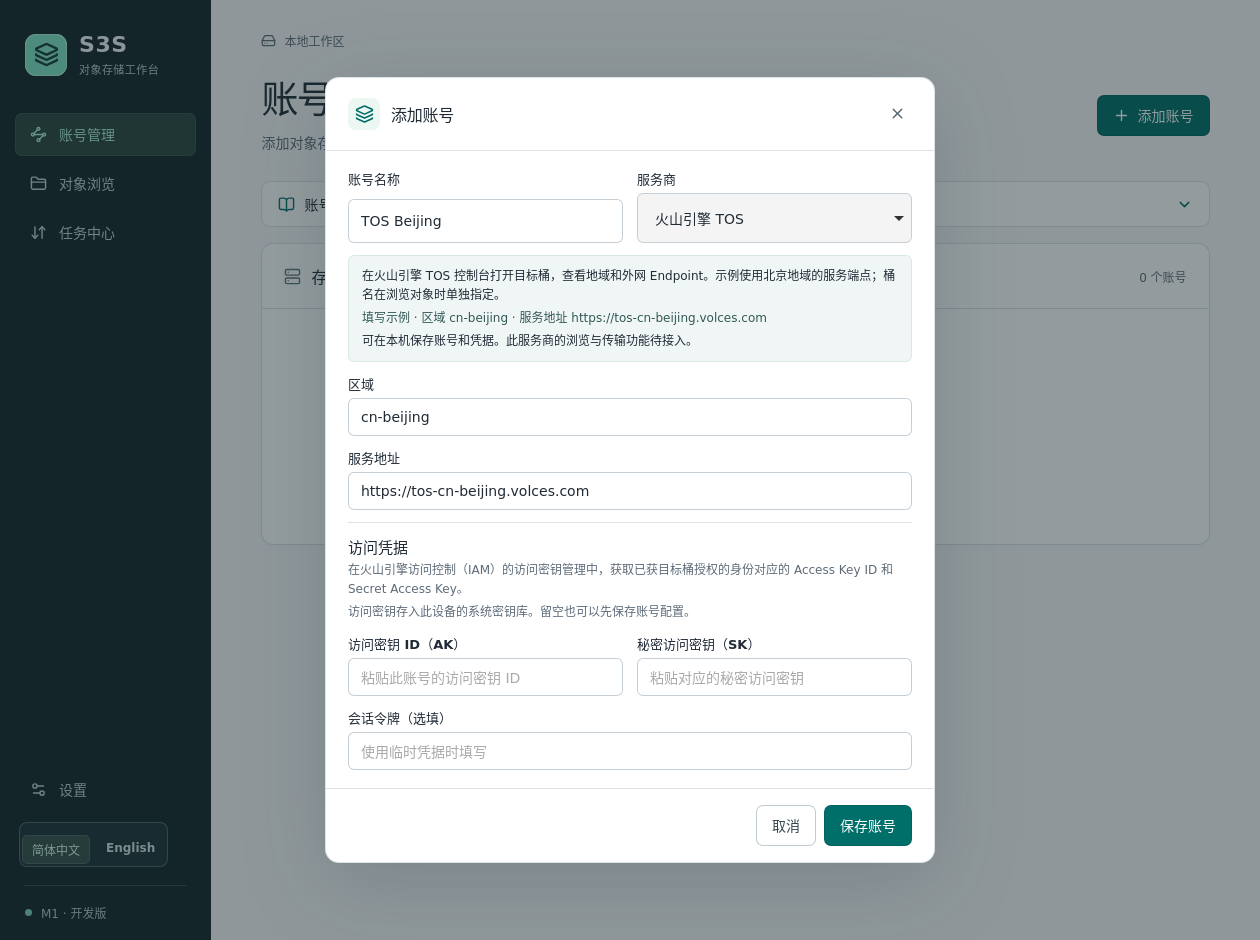
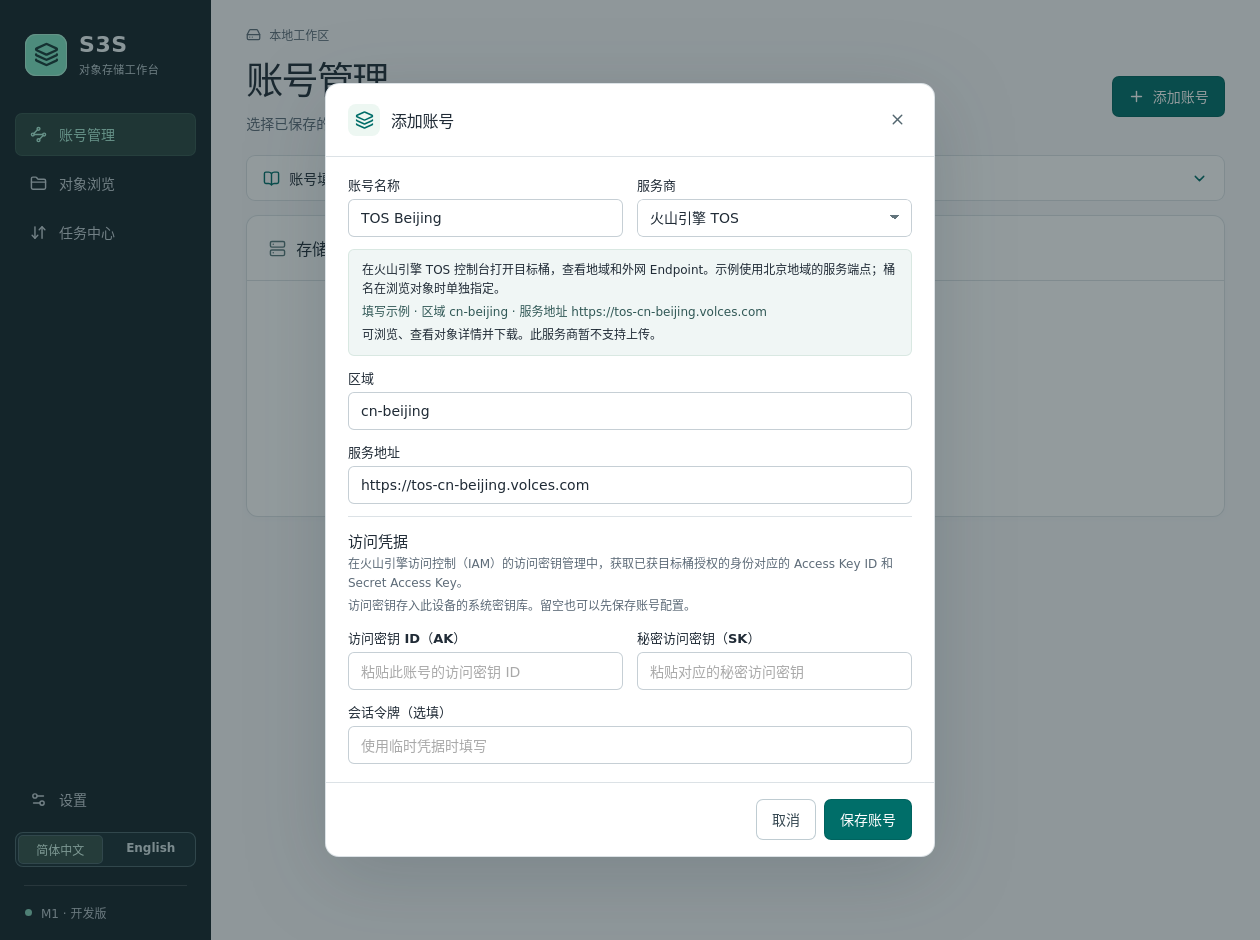
Document account-to-bucket workflows, limits and verified desktop examples

diff --git a/docs/ARCHITECTURE.md b/docs/ARCHITECTURE.md
@@ -8,7 +8,7 @@ Wails 3 在窗口中加载由 Vite 编译、Go `embed` 打包的静态文件。V
 | --- | --- |
 | `main.go` | 创建应用与窗口，注册服务，在关闭时释放数据库。应用数据保存在操作系统返回的用户配置目录下的 `S3S/workspace.sqlite3`。 |
 | `workspace.go` | 提供连接列表、保存本地连接、读取任务等元数据接口。返回可区分的结果和错误。保存配置只表示本地写入完成。 |
-| `internal/core` | 定义独立的连接、厂商能力、传输选项、任务状态、检查点和结构化错误。能力表反映已实现操作。AWS/R2 使用独立配置和共同的 S3 协议适配器；其余厂商保留公开连接模型。 |
+| `internal/core` | 定义独立的连接、厂商能力、传输选项、任务状态、检查点和结构化错误。能力表反映已实现操作。AWS/R2 使用独立配置和共同的 S3 协议适配器；通用 S3 使用显式 HTTPS 端点，OSS 与 TOS 使用各自原生适配器。 |
 | `internal/vault`、`internal/s3client` | 按当前连接在系统凭据库读取授权信息，使用固定版本的 AWS SDK 构造签名请求、解析分页和条件范围响应；对外提供可本地化的错误。 |
 | `internal/transfer` | 处理下载区间与上传分片，核对源身份、计算摘要、提交检查点，协调本地或远端发布与恢复。 |
 | `internal/store` | 管理数据库迁移、连接配置、任务、远程会话标识及分片检查点。采用 `database/sql`、嵌入的 SQL 和支持 CGO 的 SQLite 驱动。 |
@@ -23,6 +23,8 @@ Wails 3 在窗口中加载由 Vite 编译、Go `embed` 打包的静态文件。V
 | Wails Go 模块、CLI、前端 runtime | 3.1.0 | Go 使用 `github.com/wailsapp/wails/v3`；CLI 入口为相同模块的 `cmd/wails3`；前端使用 `@wailsio/runtime`。打包脚本直接构建 Go 入口，无需 Wails v2 命令。 |
 | SQLite 驱动 | `github.com/mattn/go-sqlite3` v1.14.53 | 使用驱动内嵌的 SQLite 编译；版本与校验和见 `go.mod` 和 `go.sum`。 |
 | AWS SDK for Go v2 | 核心 v1.48.0、credentials v1.21.3、S3 v1.116.0、Smithy Go v1.28.10 | AWS 和 R2 的签名、请求与协议错误解码。按模块独立锁定并提交校验和。 |
+| 阿里云 OSS SDK for Go v2 | `github.com/aliyun/alibabacloud-oss-go-sdk-v2` v1.6.1 | OSS V4 签名、列表及条件范围读取。 |
+| 火山引擎 TOS SDK for Go v2 | `github.com/volcengine/ve-tos-golang-sdk/v2` v2.9.10 | TOS 原生区域签名、列表及条件范围读取。 |
 | 跨进程工作区锁 | `github.com/gofrs/flock` v0.13.2 | 桌面进程独占当前配置目录的 `workspace.lock` 后才能恢复运行中任务。 |
 | 系统凭据存储 | `github.com/zalando/go-keyring` v0.2.8 | macOS Keychain、Windows Credential Manager、Linux D-Bus Secret Service。 |
 | Node.js、npm | 24.22.3、11.19.1 | CI 使用精确的 Node.js 版本；前端声明 npm，使用 `npm ci` 安装锁文件指定的依赖。 |
@@ -36,6 +38,10 @@ Wails 3 在窗口中加载由 Vite 编译、Go `embed` 打包的静态文件。V
 连接的公开配置落入 SQLite。账号表单通过桌面服务先提交公开配置，再将用户明确填写的访问密钥及可选会话令牌写入系统凭据库。两个存储分别报告结果；若仅凭据写入失败，返回已经保存的账号 ID 供重试。五类账号都可保存凭据，只有已实现的适配器能使用它们发出云请求。每个连接 ID 有独立凭据条目；读取时核对存入时绑定的厂商、区域和端点。修改连接指向后，新端点需要单独授权；读取列表和任务不会返还凭据。Linux 需要可用的会话 D-Bus 与已解锁的 Secret Service；密钥库不可用时返回本地化错误。平台也会限制单个条目大小；包含较长临时令牌的凭据若超过系统限制，保存操作会失败。上游实现见 [go-keyring v0.2.8](https://github.com/zalando/go-keyring/tree/v0.2.8)。
 
 Go S3 适配器使用显式凭据。AWS 根据填写的区域生成官方 S3 HTTPS 端点（含中国区域）；区域留空时使用 `us-east-1`。R2 使用账号专属 HTTPS API 端点并按 `auto` 签名。两者均使用路径寻址，签名请求限定在该端点，禁用重定向；普通的自定义 S3 服务属于通用适配器范围。AWS 的桶分页使用远端游标，R2 兼容路径读取桶列表后按名字分页；可直接输入桶名以使用桶级授权。对象列表使用 `ListObjectsV2`、前缀和分隔符区分目录前缀与真实对象；按 S3 的 URL 编码约定解码 Key，保留字面加号、斜杠和点段。下载操作通过 Go 的 HEAD 与带 `If-Match`、可选版本 ID 的范围 GET 读取内容。检查 HTTP 206、Content-Range、长度和响应验证标识。收到的 ETag 用作对象标识；分片数据的 SHA-256 用于本地恢复校验。文件数据由 Go 写入磁盘。界面发起任务并接收元数据和进度；桌面服务只在用户主动提供凭据时将其写入系统凭据库。
+
+阿里云与火山引擎适配器各自固定区域服务地址，并对桶级请求检查实际签名目标。通用 S3 使用用户显式指定的 HTTPS origin，采用路径寻址，签名请求遇到重定向即返回。五类账号共享列桶、列对象、对象 HEAD 和条件范围下载的服务接口，上传根据服务商能力单独开放。
+
+桌面服务的连接测试只读。未指定桶时使用账号身份列桶，指定桶时读取该桶对象列表。结果标明实际操作范围和耗时，服务错误保留允许展示的厂商错误码和请求 ID。对象详情对原始 Key 发出 HEAD。浏览与测试共用账号和凭据范围检查，任务使用自己的生命周期。
 
 ## 状态与持久化
 
@@ -72,8 +78,10 @@ Go S3 适配器使用显式凭据。AWS 根据填写的区域生成官方 S3 HTT
 
 核心错误保留稳定码、安全参数、厂商码、请求标识和可重试性。桌面调用区分本地输入、存储和凭据库错误。云适配器按状态区分无权访问、对象消失、远端变更及区间不符，从 SDK 中提取经过字符与长度限制的厂商错误码和请求标识。上传和下载任务持久化最近的结构化错误；完整脱敏重试历史属于后续工作。
 
-## 后续传输引擎
+## 应用级总限速与后续传输工作
 
-- Go 调度器在应用范围内持有一个上传预算、一个下载预算。所有用户文件、账号、分片、重试和测速请求复用对应方向的预算。大文件在本地流与 SDK 之间传输，IPC 仅传递元数据、命令、进度和结果。
-- AWS 与 R2 共用 S3 协议适配层，独立配置区域、端点与能力。OSS、TOS 先评估各自原生 SDK 的分页、校验与分片恢复，再分别锁定版本。通用 S3 入口按实际兼容行为声明能力。
+工作区在打开 SQLite 时从迁移 004 的单行设置读取模式和上下行限额，构造全应用共享的两个方向预算。引擎只给范围 GET 和文件内容上传标记方向，适配器在 SDK 完成签名后的 HTTP 请求体或响应体上按实际交付的对象字节计量。并发账号、已有任务和重试均使用同一方向的队列。预算按单调时钟补充，每方向可用突发不超过 32 KiB 与约 50 毫秒配额中的较小值，最低一个字节。应用设置后等待中的读写会重新检查限额。协议头、TLS 开销以及操作系统缓冲会影响网络接口上看到的瞬时速率。
+
+
+- AWS 与 R2 共用 S3 协议适配层，独立配置区域、端点与能力。OSS、TOS 的分页与条件读取已各自使用固定版本的原生 SDK，分片上传恢复仍需逐厂商验收。通用 S3 入口按实际兼容行为声明能力。
 - R2 优化应在仅适用于目标端点的 Go HTTP 拨号层生效，配合带过期时间的探测结果、手动覆盖、失败回退。保留认证时使用的请求域名、TLS SNI 及证书校验。测速与正式上传共享调度器、限速器和远端清理路径。

diff --git a/docs/TESTING.md b/docs/TESTING.md
@@ -21,16 +21,22 @@ bash scripts/cloud-linux.sh run bash scripts/build.sh
 - **S3 与下载**。签名、分页、Key 编码、条件范围响应和错误脱敏可用本地 HTTP 测试服务验证。用真实数据库及临时文件检查进程被终止后的精确续传区间、用户暂停、远端对象改变和本地目标冲突。凭据库单元测试检验连接范围与错误映射，操作系统服务交互需由桌面集成验证。
 - **语言**。比较内置词典的全部 key 及各 key 的命名占位符。验证占位符可重排、缺失条目回退和无效语言包拒绝。新建原生控件时，同时添加对应菜单、托盘、通知资源并覆盖两种语言。
 - **桌面交互**。在有图形会话的云端目标启动原生应用，访问四个页面，检查空列表和未接入提示，切换语言并核对重新启动后的设置。检查底层存储失败时显示错误，不显示空列表或成功提示代替失败。记录是否实际打开 WebView、触发操作和观察响应。
-- **四平台构建**。检查对应 SHA 的四个原生 job 与产物，并核对归档内可执行文件或应用包及其架构。浏览器中的 Vue 验证、二进制格式检查和原生 WebView 交互各自记账。
+- **四平台构建**。检查对应 SHA 的四个原生 job 与产物，并核对归档内可执行文件或应用包及其架构。Windows 原生 job 通过 `scripts/check-archive.py` 确认唯一根条目为 `S3S.exe`、内容带 PE 文件头并校验 ZIP；上传参数 `archive: false` 保持下载文件字节。浏览器中的 Vue 验证、二进制格式检查和原生 WebView 交互各自记账。
 
 在当前 Moto 场景中，测试子进程在远端已接收第 3 片、本地只有两个检查点时退出；另一个请求替换第 2 片。恢复后的实际写入必须为第 2、3、4 片，随后读回并校验完整对象。独立 Boto 客户端查询桶的分片会话，检查是否有遗留。
 
 上传恢复验证要记录实际重传的分片编号、远端会话是否复用、完成后读回的文件摘要，以及取消后会话的消失。只看到本地进度达到 100% 不足以证明远端提交成功。
 
+## 连接、带宽和账号界面验收
+
+`python3 tests/ui/preview.py` 在两个语言和三档视口核对账号行的按钮边界，检查切换账号时只发一次列表请求、过期响应被丢弃及对象详情。速度设置覆盖 KiB/s 换算、保存失败后重试和语言切换时保留输入。Linux 原生交互通过 `bash tests/integration/run.sh /path/to/S3S` 读取系统剪贴板及 SQLite 重开后的设置。Go 并发测试同时覆盖两条上传或下载数据流、重试及活动任务调速。办公模式上行/下行分别为 1 和 4 MiB/s。
+
+隔离服务在无外网的 Docker 网络中注册临时域名和测试 CA。独立 Python 服务用每次生成的测试密钥重算 OSS/TOS 签名，返回分页、元数据和范围数据。错误密钥必须失败，限制 TOS 账号列桶时已知桶仍应可读。真实厂商验收按下方矩阵分开执行。
+
 ## 账号配置与语言切换
 
 - `python3 tests/ui/preview.py` 在 Chromium 打开生产前端。检查五家服务的示例、TOS 区域和地址填入、侧栏的中英切换、可选语言包及回退。隔离的桌面接口测试强制返回“配置已保存、密钥写入失败”，检查二次提交沿用同一账号 ID。
-- 在 Linux 云机解出当次归档后，运行 `bash tests/integration/run.sh /path/to/S3S`。从「添加账号」输入测试环境临时生成的密钥，核对 Secret Service 条目，重启后用隔离端点浏览和传输。TOS 验证到本地账号与密钥存储。检查 SQLite 和 WebKit 持久化目录中是否出现测试密钥。不要把凭据写入命令行、断言输出或截图。
+- 在 Linux 云机解出当次归档后，运行 `bash tests/integration/run.sh /path/to/S3S`。从「添加账号」输入测试环境临时生成的密钥，核对 Secret Service 条目，重启后用隔离端点浏览和传输。TOS 与 OSS 使用独立的 HTTPS 隔离服务核对原生 SDK 签名、桶级授权、对象身份和条件读取。检查 SQLite 和 WebKit 持久化目录中是否出现测试密钥。不要把凭据写入命令行、断言输出或截图。
 
 ## 隔离的 S3 协议集成测试
 

diff --git a/docs/STATUS.md b/docs/STATUS.md
@@ -1,6 +1,27 @@
 # S3S 开发状态
 
-## 账号填写示例、凭据与语言切换
+## 本轮 · 从账号连到桶、对象下载与共享限速
+
+本轮从 `6f97c23` 继续开发，沿用已打开的 [PR #1](https://github.com/Cdners/S3S/pull/1)。以下是当前能力。后文按提交保留历史验证记录。
+
+| 用户操作 | 当前行为 |
+| --- | --- |
+| 测试与连接 | 在账号行点「测试连接」读取该账号的桶列表，点「连接」进入所选账号的对象浏览。也可在浏览器切换账号。只获单桶权限时输入已知桶名，直接测试或打开。服务端读取有 12 秒探测时限，失败保留可用的厂商错误码和请求 ID。 |
+| 浏览与下载 | AWS、R2、OSS、TOS 和通用 S3 共用分页、对象详情、复制原始 Key 和可恢复下载。OSS 使用原生 OSS V4 签名，TOS 使用原生 TOS 区域签名。上传和取消未完成上传仍开放给 AWS/R2。 |
+| 带宽 | 全速、办公、自定义可在设置中切换，分别约束全应用总上传和总下载。限额在运行中生效，SQLite 保存选择。 |
+| 下载开发构建 | Windows 提供单个 ZIP，根目录只有 `S3S.exe`。macOS 和 Linux 提供一份可直接解开的 tar.gz。CI 在上传前检查程序和包结构，上传后比较文件与产物的 SHA-256。 |
+
+### 云端验收
+
+- **执行通过**。Debian 13 amd64 云工作机准备了 Go 1.27.4、Node.js 24.22.3 和 GTK/WebKitGTK。前端锁文件安装、11 项 Node 测试、类型检查与 Vite 生产构建通过。Go 模块校验、vet、Go 测试和竞态检查通过。
+- **执行通过**。隔离 TLS 服务独立重算 OSS/TOS 签名，核对错误密钥、请求 ID、原始 Key、HEAD、条件 Range 与实际文件字节。TOS 凭据无权列全账号的桶时，同一凭据成功列出指定桶的对象。AWS/R2 使用 Moto 复验分片上传、重启恢复、冲突、取消清理和读回。
+- **执行通过**。两个账号并发下载共享一个总限额。模拟短读后关闭并重开 SQLite，恢复任务，运行中调速，核对最终两个文件的字节。另检查并发上传、重试、取消和切换全速。
+- **执行通过**。Chromium 在 760×560、1024×768、1200×800 分别检查简中和英文账号行操作、表格与工具栏边界。真实 Linux Wails 窗口使用系统密钥库连接隔离服务，覆盖账号连接、单桶授权、详情、复制原始 Key、系统文件对话框和重启。测试中复现并修复英文小窗口的编辑按钮越界和 GTK 下拉框文本裁切。[原生窗口截图](images/oss-browser.png)
+- **未执行**。四家真实租户的权限、性能和恢复验收，Windows/macOS 原生桌面交互，以及签名安装包的安装验收。开发构建无发布标签。OSS/TOS/通用 S3 的写入、远端复制删除、真实上传测速、R2 选路及完整重试诊断仍在路线图中。
+
+[按提交查看构建和下载项](https://github.com/Cdners/S3S/actions/workflows/desktop.yml?query=branch%3Afeat%2Faccount-setup-and-language) · [测试方法](TESTING.md) · [下载说明](RELEASING.md)
+
+## 历史 · 账号填写示例、凭据与语言切换
 
 `feat/account-setup-and-language` 从 `bada023` 继续开发。从「账号管理 → 添加账号」或某一行的「编辑账号」即可在同一窗口输入公开配置、AK/SK 和临时会话令牌。五种服务的填写示例可在没有账号时查看。TOS 北京示例能将区域和服务地址填入表单，保存前可以修改。Windows、macOS、Linux 继续使用各自的系统密钥库。侧栏和设置页都能直接选择「简体中文」或「English」。可选的第三方语言包在设置页的「更多语言」内管理。[带截图的入门指南](../README.md#第一次添加存储账号)
 

diff --git a/AGENTS.md b/AGENTS.md
@@ -21,3 +21,6 @@
 在仓库根目录运行 `bash scripts/cloud-linux.sh setup`。执行 `export npm_config_cache=/workspace/.s3s-tools/npm-cache` 后运行 `bash scripts/check.sh frontend`、`bash scripts/cloud-linux.sh run bash scripts/check.sh go` 和 `bash scripts/cloud-linux.sh run bash scripts/build.sh`。原生 runner 的等价命令为 `bash scripts/check.sh` 和 `bash scripts/build.sh`，Linux 先执行 `bash scripts/setup-linux.sh`。
 
 修改 AWS/R2 传输或恢复时，额外运行 `bash tests/integration/run.sh`，并在云端运行 `bash scripts/cloud-linux.sh run go test -race -mod=readonly -count=1 ./...`。验证桌面文件选择器时，将本次提交构建归档解出的 Linux 可执行文件路径作为集成脚本的第一个参数。验证语言和桌面工作区时，运行 `python3 tests/ui/preview.py` 和 `bash tests/ui/linux-container.sh /path/to/S3S`。隔离测试服务、原生窗口和真实厂商桶各自记录结果。
+
+
+更改账号连接、对象操作或界面布局时，运行双语 Chromium 检查与 Linux 原生交互检查。浏览器检查包含 760×560、1024×768、1200×800 三档；原生检查使用 TLS 隔离服务测试获准与被拒绝的请求。变更厂商读取或限速时，还需运行竞态检查和 `bash tests/integration/run.sh`。打包时保持 Windows ZIP 根目录只有 `S3S.exe`，用 `scripts/check-archive.py` 核对文件，Actions 上传单个成品时使用 `archive: false`。

diff --git a/docs/ROADMAP.md b/docs/ROADMAP.md
@@ -11,3 +11,6 @@
 | M4 | 安装包、签名及测试版本发布 | 在声明支持的 Windows、macOS 和 Linux 系统上从发布候选产物完成安装、启动、更新或迁移、传输恢复与卸载验收；记录签名、校验和、平台要求和已知限制，再人工批准测试发布。 |
 
 开发过程中可分批合入阶段内的改动。只编译通过的目标记录为“构建通过”；真实云联调、重启和安装验收各有独立结果。rclone 可用于兼容性和性能对比，恢复验收依据始终是 S3S 自身的真实会话、分片和文件断言。
+
+
+本次增量实现了 M2 的读取部分与 M3 的总限速。下一步优先级是 OSS/TOS 的可靠上传与中止、四家隔离租户的权限和恢复验收，再接入受流量与时间上限约束的真实上传测速、R2 建连优化。各项构建与交互的证据分别记录在 [STATUS.md](STATUS.md)。
